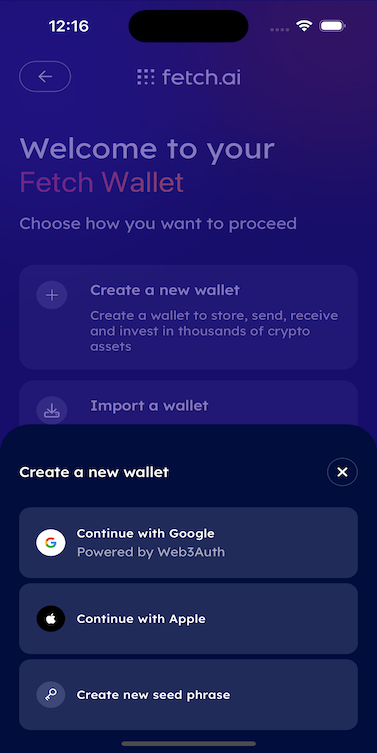
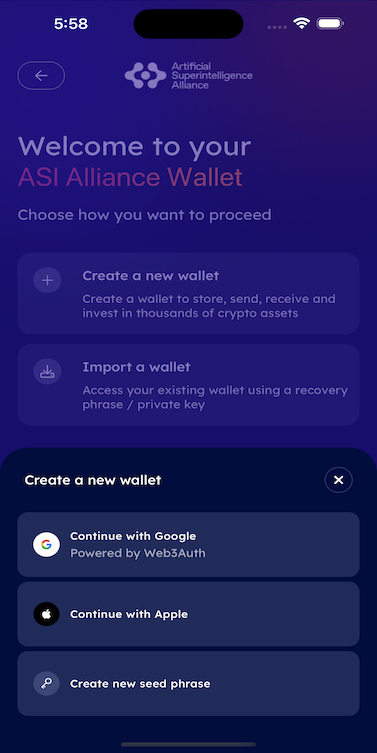
chore: ASI rebranding and gov proposal updates

diff --git a/components/feature-guide-tabs.tsx b/components/feature-guide-tabs.tsx
@@ -121,9 +121,9 @@ export const FeatureGuideTabs = ({ centerMode }: { centerMode?: boolean }) => {
       label: "Other",
       content: [
         {
-          title: "Fetch Wallet",
+          title: "ASI Alliance Wallet",
           description:
-            "A guide helping you to get started with the Fetch wallet.",
+            "A guide helping you to get started with the ASI Alliance Wallet.",
           path: "/guides/fetch-network/fetch-wallet/fetch-wallet-getting-started",
         },
         {

diff --git a/components/products.tsx b/components/products.tsx
@@ -228,9 +228,9 @@ const items: { [key: string]: Item[] } = {
     },
     {
       title: "Wallet",
-      description: <>Get started with the Fetch Wallet.</>,
+      description: <>Get started with the ASI Alliance Wallet.</>,
       icon: walletIcon,
-      path: "/guides/fetch-network/fetch-wallet/fetch-wallet-getting-started",
+      path: "/guides/fetch-network/fetch-wallet/web-wallet/get-started",
     },
     {
       title: "Ledger",
